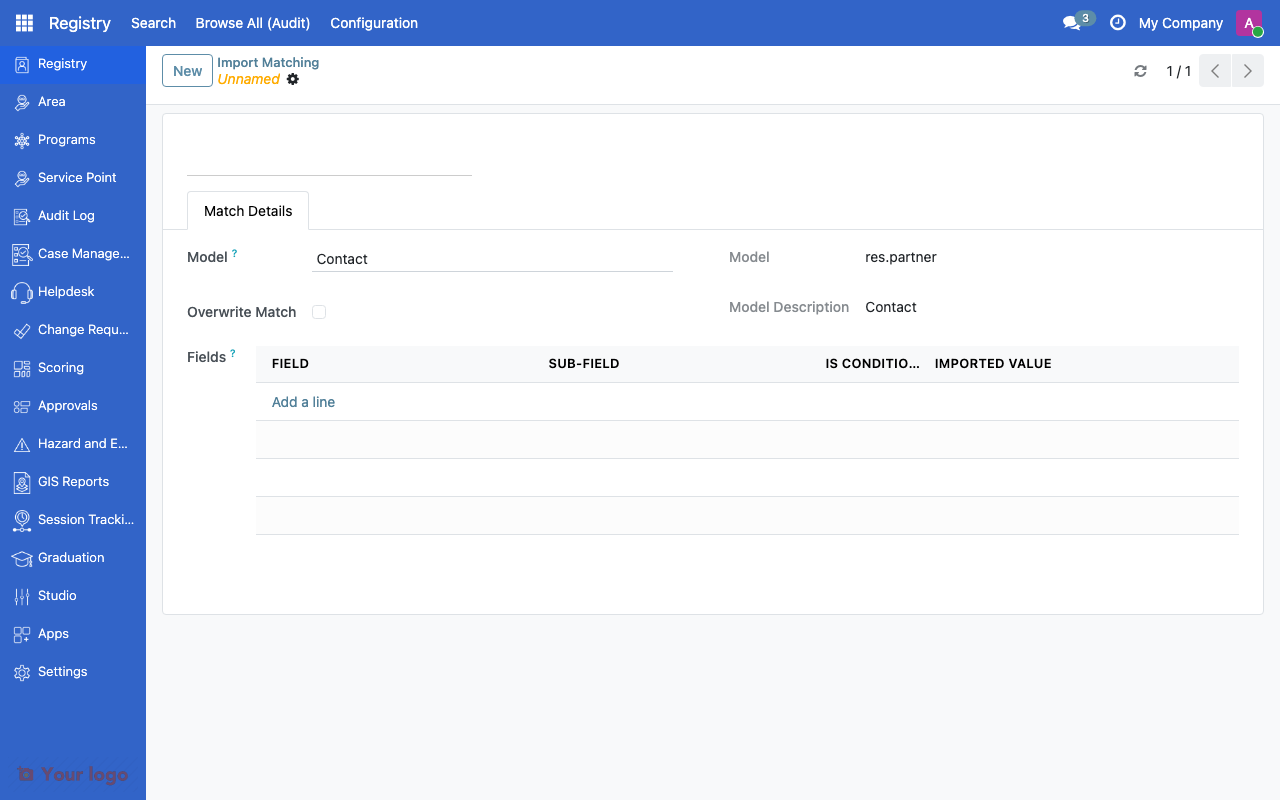
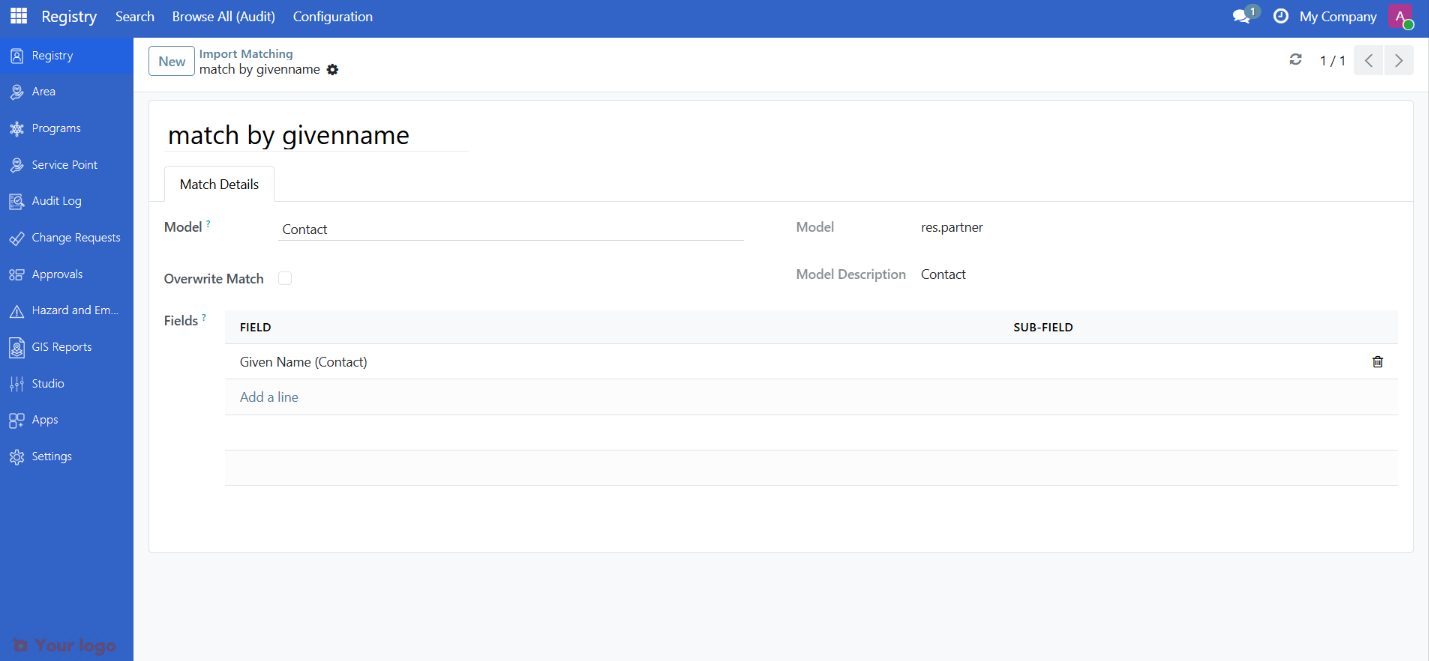
updated import match config guide to align with fixes made

diff --git a/docs/config_guide/import_matching/overview.md b/docs/config_guide/import_matching/overview.md
@@ -42,9 +42,6 @@ Each field in a rule defines one matching criterion:
 |-------|---------------|
 | **Field Name** | The field to compare |
 | **Sub-field** | For linked fields, which specific value to compare (e.g., the bank's name rather than its ID) |
-| **Conditional** | Only match when a specific condition is true |
-| **Condition Field** | The field to check for the condition |
-| **Condition Value** | The value the condition field must have |
 
 ### Matching behavior
 
@@ -62,16 +59,6 @@ When importing data:
    - **Overwrite disabled:** Skip the incoming record
 4. If no match: create a new record
 
-### Conditional matching
-
-Conditions add context to matching. For example:
-
-| Scenario | Condition Field | Condition Value | Effect |
-|----------|----------------|-----------------|--------|
-| Match only active records | active | True | Ignores archived records |
-| Match by program | program_id | specific ID | Only matches within one program |
-| Match by ID type | id_type | national_id | Uses national ID for matching |
-
 ## Setting up matching rules
 
 ### Step 1: Create a rule
@@ -86,7 +73,6 @@ Conditions add context to matching. For example:
 2. For each field:
    - Select the field name
    - Optionally set a sub-field for relational fields
-   - Optionally add a condition
 
 ### Step 3: Configure overwrite behavior
 
@@ -99,9 +85,9 @@ Conditions add context to matching. For example:
 
 Match registrants by their unique national ID:
 
-| Field | Sub-field | Conditional |
-|-------|-----------|-------------|
-| national_id | - | No |
+| Field | Sub-field |
+|-------|-----------|
+| national_id | - |
 
 Simple and reliable when national IDs are consistently formatted.
 
@@ -109,22 +95,12 @@ Simple and reliable when national IDs are consistently formatted.
 
 Match when both name and phone number match:
 
-| Field | Sub-field | Conditional |
-|-------|-----------|-------------|
-| name | - | No |
-| phone | - | No |
+| Field | Sub-field |
+|-------|-----------|
+| name | - |
+| phone | - |
 
 Reduces false matches compared to single-field matching.
-
-### Pattern 3: Conditional ID match
-
-Match by national ID only for records of a specific type:
-
-| Field | Sub-field | Conditional | Condition Field | Condition Value |
-|-------|-----------|-------------|----------------|-----------------|
-| national_id | - | Yes | id_type_id | national_id |
-
-Useful when multiple ID types exist (national ID, passport, voter ID).
 
 ## Are You Stuck?
 

diff --git a/docs/config_guide/import_matching/index.md b/docs/config_guide/import_matching/index.md
@@ -16,7 +16,7 @@ The `spp_import_match` module must be installed. See {doc}`/get_started/modules/
 
 ## What you'll find here
 
-- **{doc}`overview`** - Import matching concepts, rules, field selection, and conditional logic
+- **{doc}`overview`** - Import matching concepts, rules, and field selection
 
 ```{toctree}
 :hidden:
@@ -30,5 +30,4 @@ overview
 1. From the main menu, click **Registry**, then click **Configuration** and scroll down to **Import Match**
 2. Create a **Matching Rule** for the target model (e.g., Contacts)
 3. Select the **Fields** to match on (e.g., national ID, phone number)
-4. Optionally add **Conditional Logic** (e.g., only match if status = active)
-5. Set **Overwrite** behavior for matched records
+4. Set **Overwrite** behavior for matched records
